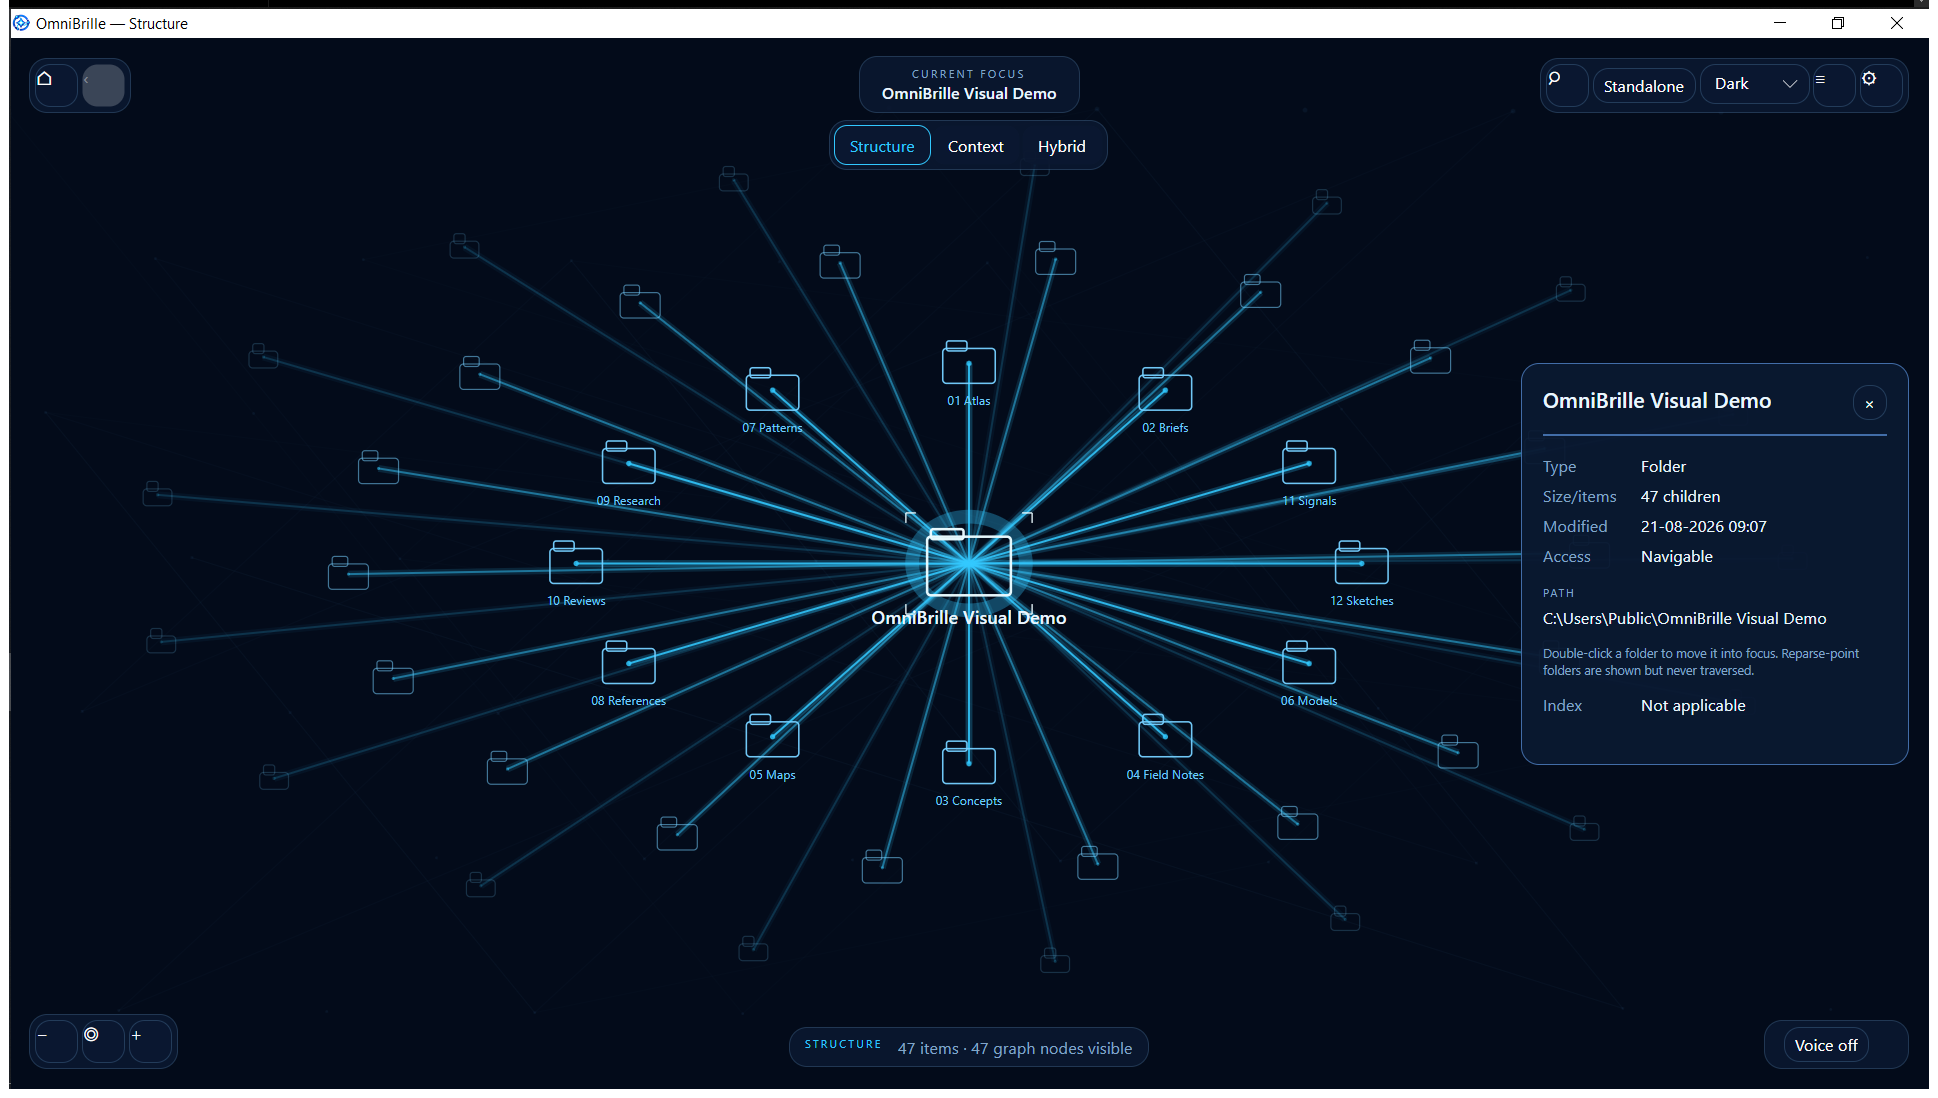
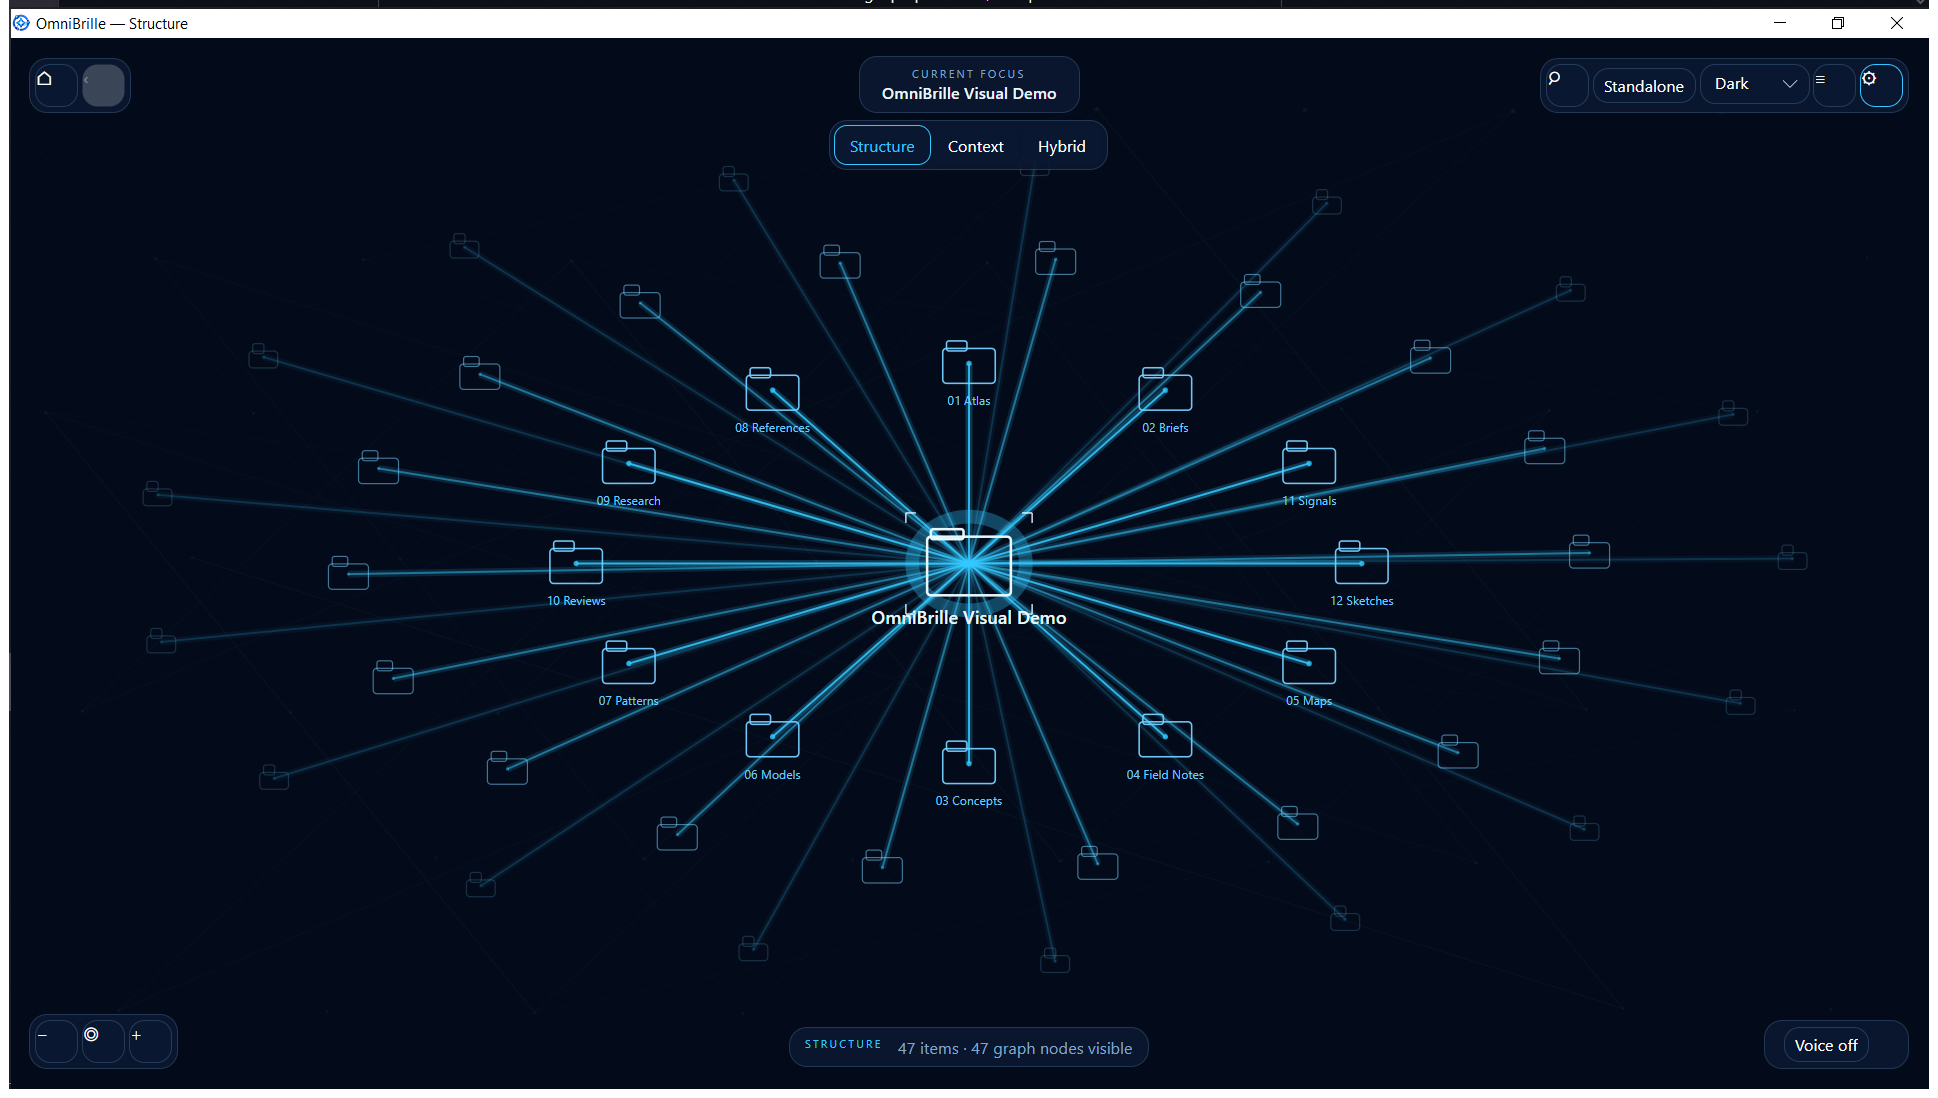
docs: bind final v1.1 visual evidence

diff --git a/docs/assets/screenshots/README.md b/docs/assets/screenshots/README.md
@@ -6,17 +6,18 @@ The `v1.1-*.png` files are real captures of an installed Windows x64 `1.1.0` can
 
 - Capture date: 2026-08-21.
 - Host: Windows 10 build 19045 at 125% display scaling.
-- Visible application commit: `d4dfd83e14a855cf50a3b65290b0aacfdf75f845`.
[1 lines of base64/hex data omitted]
+- Visible application commit: `e308c72db1a86fd3a096fc19dcdca29df7b55920`.
[3 lines of base64/hex data omitted]
 - Executable metadata: file version `1.1.0.0`, product version `1.1.0`.
 - Demo roots: `C:\Users\Public\OmniBrille Visual Demo` and its `09 Research` child.
-- Data: purpose-built generic folders; no personal content, user-profile path, diagnostics, OmniSorSe session, or voice data.
+- Data: purpose-built generic folders; no personal content, private or personal user-profile path, diagnostics, OmniSorSe session, or voice data.
 - Views: dense Dark Structure, dense Light Structure, structural Search for `Research`, nested focus/details, and the synchronized accessible list.
 
 The captures use a Per-Monitor-V2-aware process and the physical Win32 window bounds so the complete 125%-DPI window is represented. They use the documented fresh-user visual defaults: Reduced Motion off and Reduced Visual Effects off. They were inspected at full size for native window chrome; floating navigation, mode, Search, utility, zoom, status, voice, and details/list surfaces; graph nodes, labels, outlined glyphs, edges, focus reticle, Search emphasis, and theme contrast. The same installed candidate exercised arrow/Enter navigation, Alt+Left Back, `Ctrl+F` Search, `Ctrl+Shift+L` list access, normal close/relaunch, a real progressive 5,000-file load, the supported 820-by-520 logical minimum window, and both reduced settings enabled. The owner's pre-existing reduced preferences were backed up and restored byte-for-byte after capture. Automated headless coverage exercised 100/125/150/200% text scaling and the deterministic reduced-motion/effects contracts. No screen reader was used.
 
-The images were captured before this provenance file and the PNGs themselves were committed. No visible application or native-renderer source is permitted to change after commit without recapturing them. The eventual exact release installer must still be rebuilt from the final documentation/screenshot commit and separately pass installed-artifact and public-release qualification before these images can be described as release screenshots.
+The images were captured before this provenance file and the PNGs themselves were committed. All five come from the same installed candidate after the first-run panel/status non-overlap correction; Search and accessible-list views show the bottom status surface yielding to the owning side panel. A later source change that can affect a represented state requires recapture. The eventual exact release installer must still be rebuilt from the final documentation/screenshot commit and separately pass installed-artifact and public-release qualification before these images can be described as release screenshots.
 
 ## v1.0 release
 

diff --git a/RELEASE_CHECKLIST.md b/RELEASE_CHECKLIST.md
@@ -7,7 +7,7 @@ Checkboxes are maintainer gates. Automation does not mark manual checks complete
 - [x] Use a new `v1.1.0` release; do not move `v1.0.0` or replace its checksum-bound assets.
 - [x] Limit this release to visual shell/presentation changes. Provider, filesystem, Search, protocol, persistence, privacy, and scene-admission contracts remain unchanged.
 - [ ] The release commit is identified, independently reviewed, clean, and equals GitHub `main`.
-- [ ] Version, executable, installer, changelog, compatibility, README, release notes, screenshot provenance, and artifact names all say `1.1.0`.
+- [x] Source/package version authorities, executable, installer, changelog, compatibility, release notes, screenshot provenance, and candidate artifact names say `1.1.0`; README keeps the published `1.0.0` download explicit until v1.1 publication.
 - [x] MIT project licensing and the separate installed third-party terms remain unchanged.
 - [x] The pinned DNG-free native renderer package/provenance gate remains unchanged and fail-closed.
 - [ ] The owner has explicitly selected signed or unsigned publication for v1.1.0. If unsigned, the exact installer/application report `NotSigned` and public notes retain the SmartScreen/Unknown Publisher disclosure.
@@ -19,9 +19,9 @@ Checkboxes are maintainer gates. Automation does not mark manual checks complete
 - [x] Search is collapsed initially, expands/focuses on click or `Ctrl+F`, and dismisses without duplicating session query/result state.
 - [x] Focus, selected/immediate, secondary, and ambient hierarchy uses only admitted nodes/edges and existing deterministic layout bands.
 - [x] Dark, Light, dense, nested/details, Search-expanded, loading, and minimum-size source-candidate states were inspected on the interactive Windows host.
-- [ ] Final screenshots are recaptured from the installed candidate using non-private data and independently reviewed at full size.
-- [ ] Actual keyboard traversal, visible focus, reduced motion/effects, and 100/125/150/200% text/DPI behavior are recorded precisely; real assistive-technology use remains unclaimed unless performed.
-- [ ] Same-host representative renderer timings, allocations, and cache occupancy are compared with the pre-change baseline; no material unexplained regression remains.
+- [x] Final screenshots bind one exact installed candidate and non-private data and were independently reviewed at full size.
+- [x] Actual Windows UIA exposure, keyboard traversal, visible focus, reduced motion/effects, and 125% display scaling are recorded separately from automated 100/125/150/200% text-scale coverage; no screen-reader use is claimed.
+- [x] Same-host representative renderer timings, allocations, accepted-label changes, and bounded cache capacities were compared with the pre-change baseline; no material unexplained regression remains.
 
 ## Automated release gate
 

diff --git a/docs/architecture.md b/docs/architecture.md
@@ -270,7 +270,7 @@ The primary Windows package is an Inno Setup 6.7.3 current-user installer. It pu
 
 ## Graph-first visual shell and non-goals
 
-The v1.1 shell keeps session/provider/rendering ownership unchanged while giving `GraphSceneControl` the entire client area. Root/Back, Current Focus, mode selection, provider/theme/accessibility/settings, Search, zoom, Voice, live status, and secondary panels are compact floating projections over that one graph. Search is collapsed by default, expands on its trigger or `Ctrl+F`, and continues to use `ExplorerSession` as the only query/result authority. The Current Focus chip shows the focused item name and preserves the full authorized target as tooltip and automation help. First run, Structure-empty, Search-no-match, authoritative no-Context, and filter-zero states remain distinct; Search results still take precedence over details.
+The v1.1 shell keeps session/provider/rendering ownership unchanged while giving `GraphSceneControl` the entire client area. Root/Back, Current Focus, mode selection, provider/theme/accessibility/settings, Search, zoom, Voice, live status, and secondary panels are compact floating projections over that one graph. Search is collapsed by default, expands on its trigger or `Ctrl+F`, and continues to use `ExplorerSession` as the only query/result authority. The Current Focus chip shows the focused item name and preserves the full authorized target as tooltip and automation help. First run, Structure-empty, Search-no-match, authoritative no-Context, and filter-zero states remain distinct. First-run guidance yields to open secondary surfaces, and the bottom status surface yields to side panels at the supported minimum size; neither obscures focused controls. Search results still take precedence over details.
 
 Graph hierarchy is presentation-only. `GraphPresentationPolicy` combines the existing focus/selection/Search/hover state with the deterministic layout density band; `GraphSceneControl` draws focus, immediate, secondary, and ambient emphasis without changing coordinates, node admission, edge admission, or filesystem meaning. Structural edge appearance is derived from both endpoints so wire orientation cannot change its visual band. The fixed data-rain streams retain one bounded timer/cache and add only a primitive theme-aware aperture. Reduced motion/effects, renderer-cache limits, hit targets, keyboard behavior, the synchronized accessible list, and visible-node automation remain part of the same contracts.
 

diff --git a/ROADMAP.md b/ROADMAP.md
@@ -122,7 +122,7 @@ Status language is intentionally conservative: checked items exist in the applic
 - [x] Strengthen focus/immediate/secondary/ambient hierarchy from existing bounded layout and interaction data only; preserve node/edge admission and filesystem meaning.
 - [x] Refine the deep navy/cyan and pale ice-blue themes plus the bounded data-rain identity without adding blur, unbounded resources, or a second animation loop.
 - [x] Extend minimum-window, Search focus/dismissal, text-scale, hierarchy, keyboard, automation, reduced-effects, and renderer-profile validation.
-- [ ] Capture and independently review the final installed v1.1.0 screenshot set using non-private data.
+- [x] Capture and independently review the final installed v1.1.0 screenshot set from one exact candidate using non-private data.
 - [ ] Complete exact-artifact and hosted lifecycle qualification for v1.1.0.
 - [ ] Record the v1.1.0 signing decision before publication; the owner’s prior unsigned authorization applies specifically to v1.0.0.
 - [ ] Publish v1.1.0 only after all release gates pass. The existing v1.0.0 tag and artifacts are immutable historical release evidence.

diff --git a/docs/release-notes.md b/docs/release-notes.md
@@ -23,6 +23,7 @@ OmniBrille project code is licensed under the **MIT License**. The release inclu
 - The graph now fills the application client area, with compact floating navigation, mode, Search, utility, zoom, details, voice, and status surfaces.
 - Current Focus is smaller and clearer; selected/immediate/secondary/ambient graph states have stronger visual hierarchy without adding nodes or relationships.
 - Search is collapsed until requested by click or `Ctrl+F`, and the disabled Voice surface collapses to one quiet action.
+- First-run guidance and the bottom status surface yield when a secondary panel claims their space, keeping focused controls unobscured at the supported minimum size.
 - Dark and Light themes use a deeper navy/cyan and pale ice-blue visual system; the bounded loading data rain has a restrained focal aperture.
 - Filesystem behavior, Connected-mode contracts, Explorer Protocol v1, scene budgets, privacy, persistence, and destructive-operation policy are unchanged.
 
